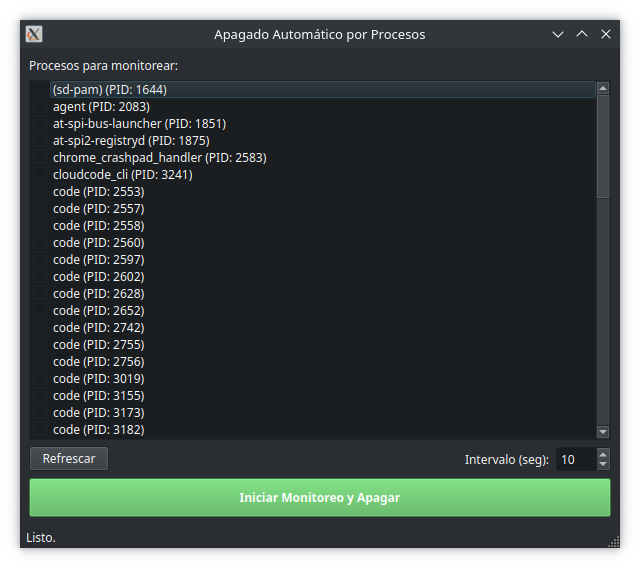
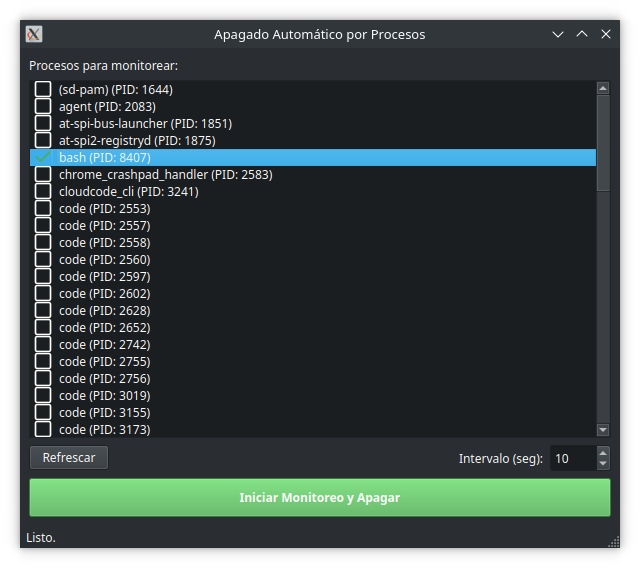
style

Changed region(s): [[0.0312, 0.1197, 0.9375, 0.838], [0.7188, 0.7782, 0.9062, 0.838], [0.9375, 0.7482, 0.9688, 0.8081]]

diff --git a/main.py b/main.py
@@ -16,6 +16,25 @@ MAX_INTERVAL_SECONDS = 3600
 # --- Colores y Estilos ---
 STYLE_BTN_START = "background-color: #4CAF50; color: white; font-weight: bold; padding: 10px;"
 STYLE_BTN_CANCEL = "background-color: #f44336; color: white; font-weight: bold; padding: 10px;"
+STYLESHEET = """
+    QListWidget {
+        outline: 0;
+    }
+    QListWidget::item:selected {
+        background-color: #4a4a4a;
+        border: none;
+    }
+    QListWidget::indicator {
+        width: 20px;
+        height: 20px;
+    }
+    QListWidget::indicator:unchecked {
+        image: url(images/unchecked.svg);
+    }
+    QListWidget::indicator:checked {
+        image: url(images/checked.svg);
+    }
+"""
 
 # --- Estados de la UI ---
 class UIState(Enum):
@@ -76,6 +95,8 @@ class ProcessShutdownApp(QMainWindow):
         self._connect_signals()
         self.populate_process_list() # Poblar la lista al inicio
         self.set_ui_state(UIState.IDLE)
+
+        self.setStyleSheet(STYLESHEET)
 
     def _setup_ui(self):
         main_widget = QWidget()
